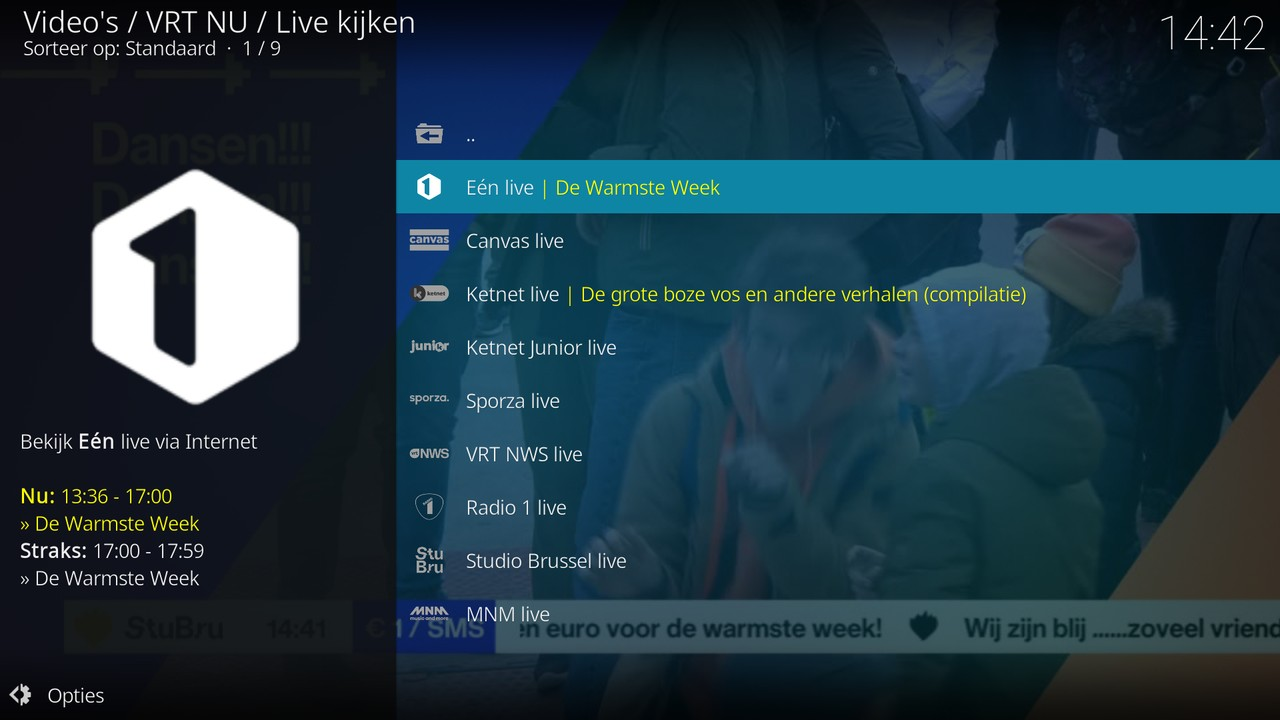
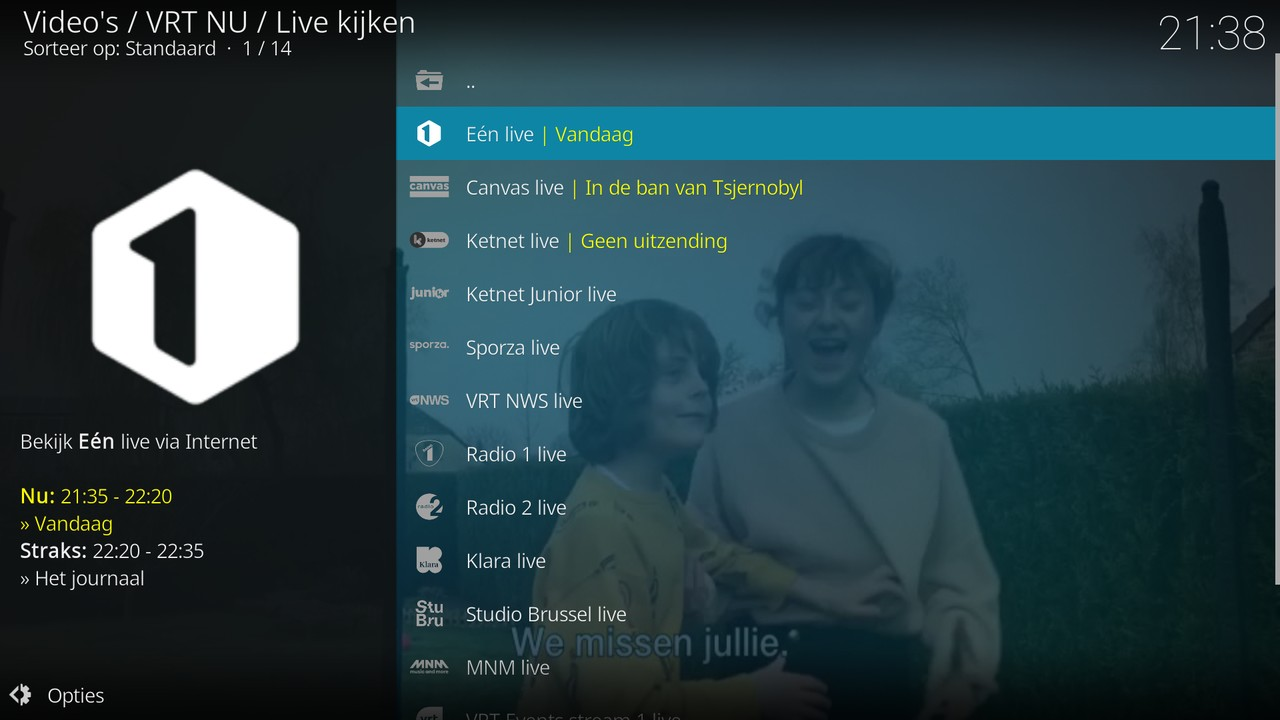
v2.3.3 release (#734)
* v2.3.3 release

* Removed GitHub handles from short news

diff --git a/README.md b/README.md
@@ -50,6 +50,16 @@ leave a message at [our Facebook page](https://facebook.com/kodivrtnu/).
 ![](./resources/media/screenshot04.jpg)
 
 ## Releases
+### v2.3.3 (2020-04-30)
+- Fix Radio 1 livestream (@dagwieers)
+- Fix watching VRT NU abroad (@mediaminister)
+- Add support for Kodi 19 Matrix "pre-release" builds (@mediaminister)
+- Add colour preferences to accomodate light skins (@dagwieers @mediaminister)
+- Add a favourites music subsection (@dagwieers)
+- Allow editing a search query from search history (@dagwieers)
+- Expand TV guide range (@dagwieers)
+- Add livestreams for Radio 2 and Klara (@dagwieers @mediaminister)
+
 ### v2.3.2 (2020-01-18)
 - Fix issues related to categories scraping and caching (@mediaminister)
 - Various improvements to TV guide (@dagwieers)
